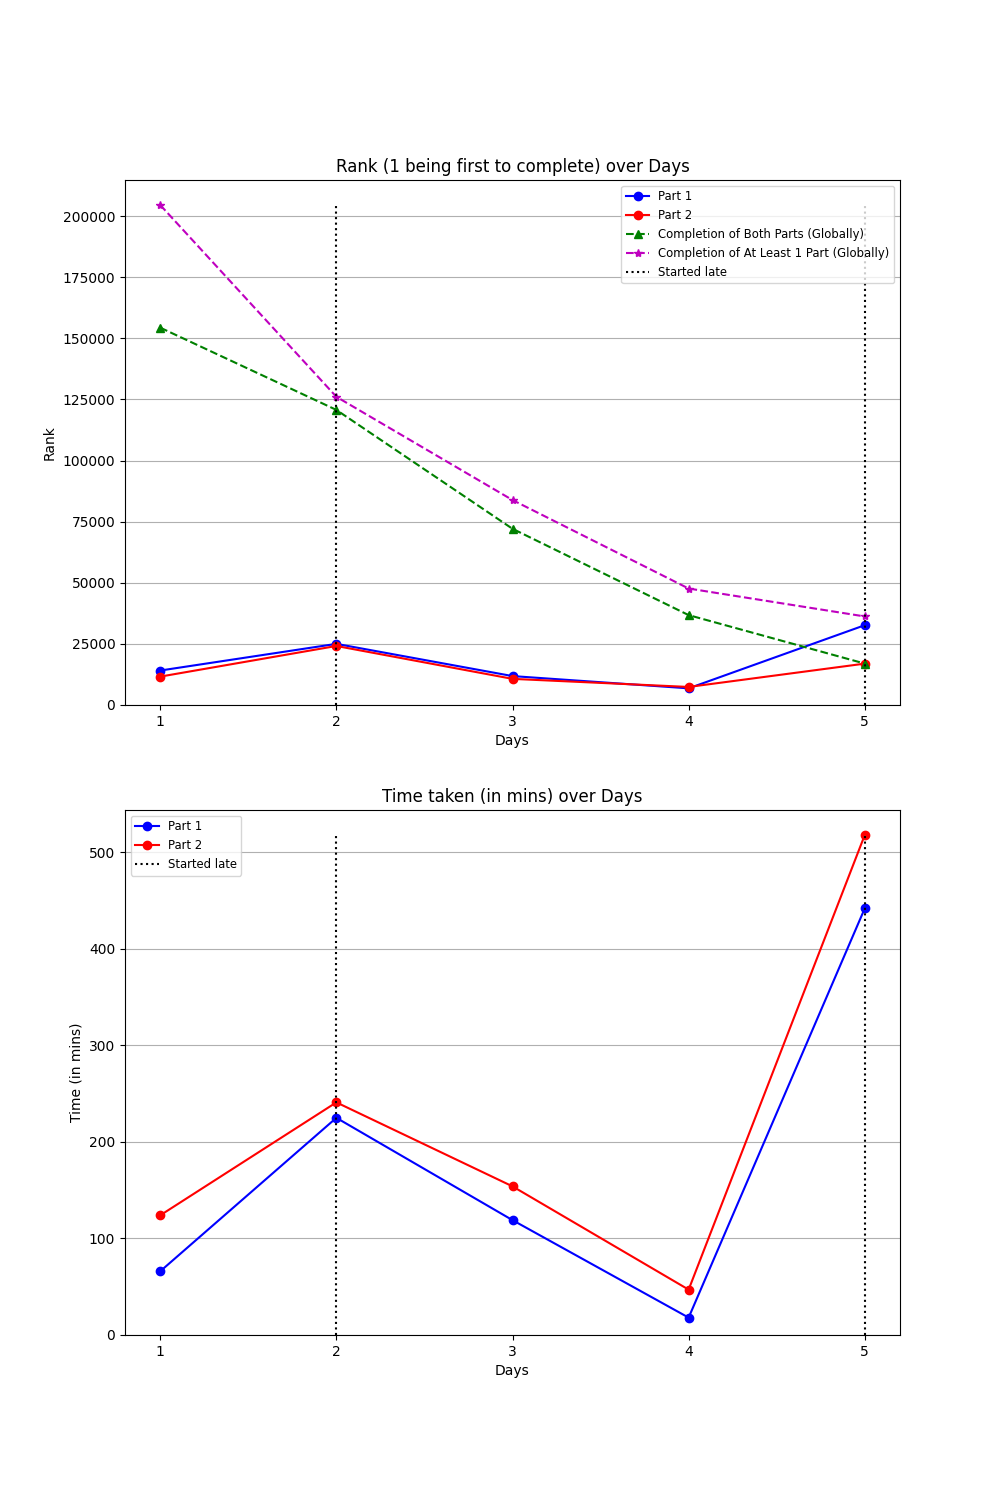
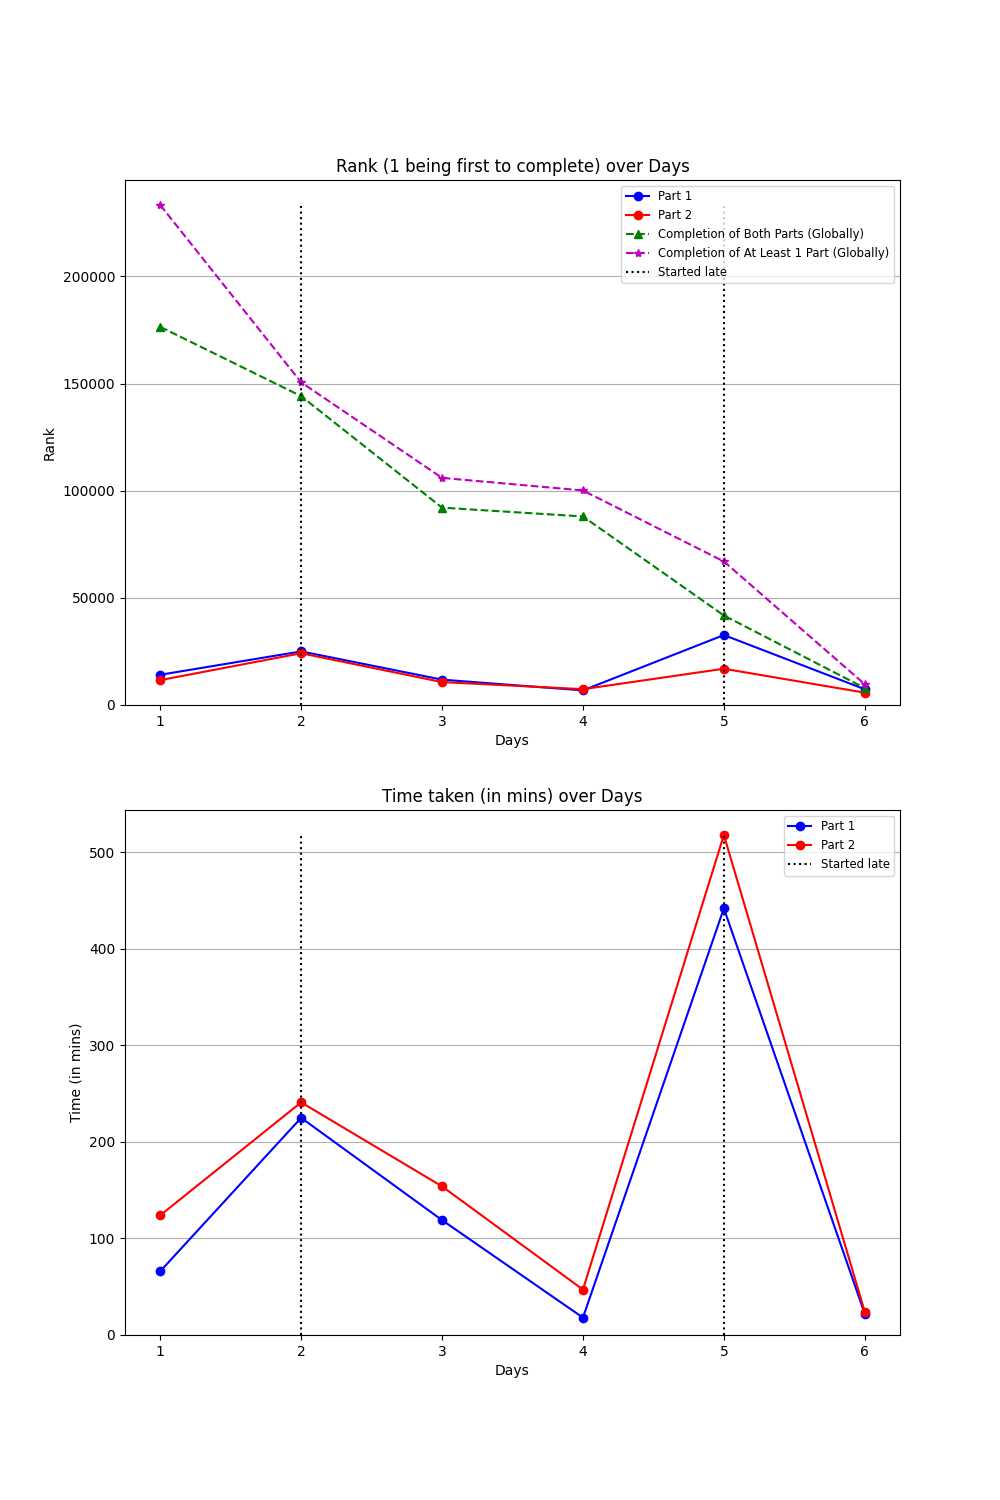
Added day 6 code and stats

diff --git a/stats/stats.py b/stats/stats.py
@@ -1,14 +1,14 @@
 import numpy as np
 import matplotlib.pyplot as plt
 
-one_rank = [14101, 25010, 11831, 6816, 32645]               # rank for part 1
-two_rank = [11613, 24146, 10693, 7384, 16922]               # rank for part 2
-two_stars_tot = [154354, 120716, 72083, 36771, 16942]       # number of people that completed both parts
-add = [50180, 5364, 11757, 10872, 19277]                    # number of people that completed part 1 only
+one_rank = [14101, 25010, 11831, 6816, 32645, 7344]               # rank for part 1
+two_rank = [11613, 24146, 10693, 7384, 16922, 5753]               # rank for part 2
+two_stars_tot = [176441, 144108, 92084, 87971, 41786, 7905]       # number of people that completed both parts
+add = [56863, 6446, 13896, 12127, 25195, 1762]                    # number of people that completed part 1 only
 anomalies = [2, 5]                                          # days where I did not start on time
 
-one_time = [(1,6,6), (3,44,38), (1,59,16), (0,18,0), (7,22,24)]        # time taken for part 1 in (hrs, mins, secs)
-two_time = [(2,3,32), (4,0,37), (2,34,4), (0,46,44), (8,38,27)]        # time taken for part 2 in (hrs, mins, secs)
+one_time = [(1,6,6), (3,44,38), (1,59,16), (0,18,0), (7,22,24), (0,22,7)]        # time taken for part 1 in (hrs, mins, secs)
+two_time = [(2,3,32), (4,0,37), (2,34,4), (0,46,44), (8,38,27), (0,24,7)]        # time taken for part 2 in (hrs, mins, secs)
 i = len(one_rank) + 1
 
 def convert_to_mins(tup):

diff --git a/day_6/day_6.py b/day_6/day_6.py
@@ -1,0 +1,34 @@
+def calcways(totTime, rec):
+        ways = 0
+        for i in range(1, totTime + 1):
+            d = i * (totTime - i)
+            if d > rec:
+                ways += 1
+        return ways
+
+def part_1():
+    rows = []
+    with open("day_6.txt", "r") as f:
+        for line in f:
+            rows.append(list(map(lambda x: int(x), line.split())))
+
+    times = rows[0]
+    dists = rows[1]
+    ways = 1
+    for i in range(len(times)):
+        ways *= calcways(times[i], dists[i])
+    print(ways)
+
+def part_2():
+    rows = []
+    with open("day_6.txt", "r") as f:
+        for line in f:
+            rows.append(int("".join(line.split(" "))))
+    times = rows[0]
+    dists = rows[1]
+    ways = calcways(times, dists)
+    print(ways)
+
+if __name__ == "__main__":
+    part_1()
+    part_2()

diff --git a/README.md b/README.md
@@ -9,7 +9,7 @@ Huge thanks to the creator of AOC, [Eric Wastl](http://was.tl/).
 
 [View the AOC 2023 page here](https://adventofcode.com/2023/about)
 
-# Days and Comments
+# Days and Reflections
 1. Trebuchet? (2/2 stars)
     * This was a particularly difficult day 1 from what I heard in my university discord, which I agree. I expected it to be trivial but it ended up costing me 2 hours...
 2. Cube Conundrum (2/2 stars)
@@ -20,6 +20,8 @@ Huge thanks to the creator of AOC, [Eric Wastl](http://was.tl/).
     * Very manageable actually. Solved this one quite quickly due to me being used to regex. I opted for a "bottom-up" style of dynamic programming in Part 2 which if not for a careless mistake, could've been my first sub-20 minute submission.
 5. If You Give A Seed A Fertilizer (2/2 stars)
     * I must say the problem gave me quite a headache, but it did teach me the principles of logical thinking and analysis. It sounds weird, but my approach was a more mathematical and logical one as compared to my initial idea which was brute-forcing. Although the code is bulky and unoptimised, I'm quite proud of it anyway.
+6. Wait For It (2/2 stars)
+    * A particularly easy day, even easier than day 4. The input text was not lengthy at all, so any tricky edge cases were not included. I chose to brute force search my way through.
 
 # Analysis of Times and Completion
 ![](stats/stat_of_the_day.png?raw=true)
